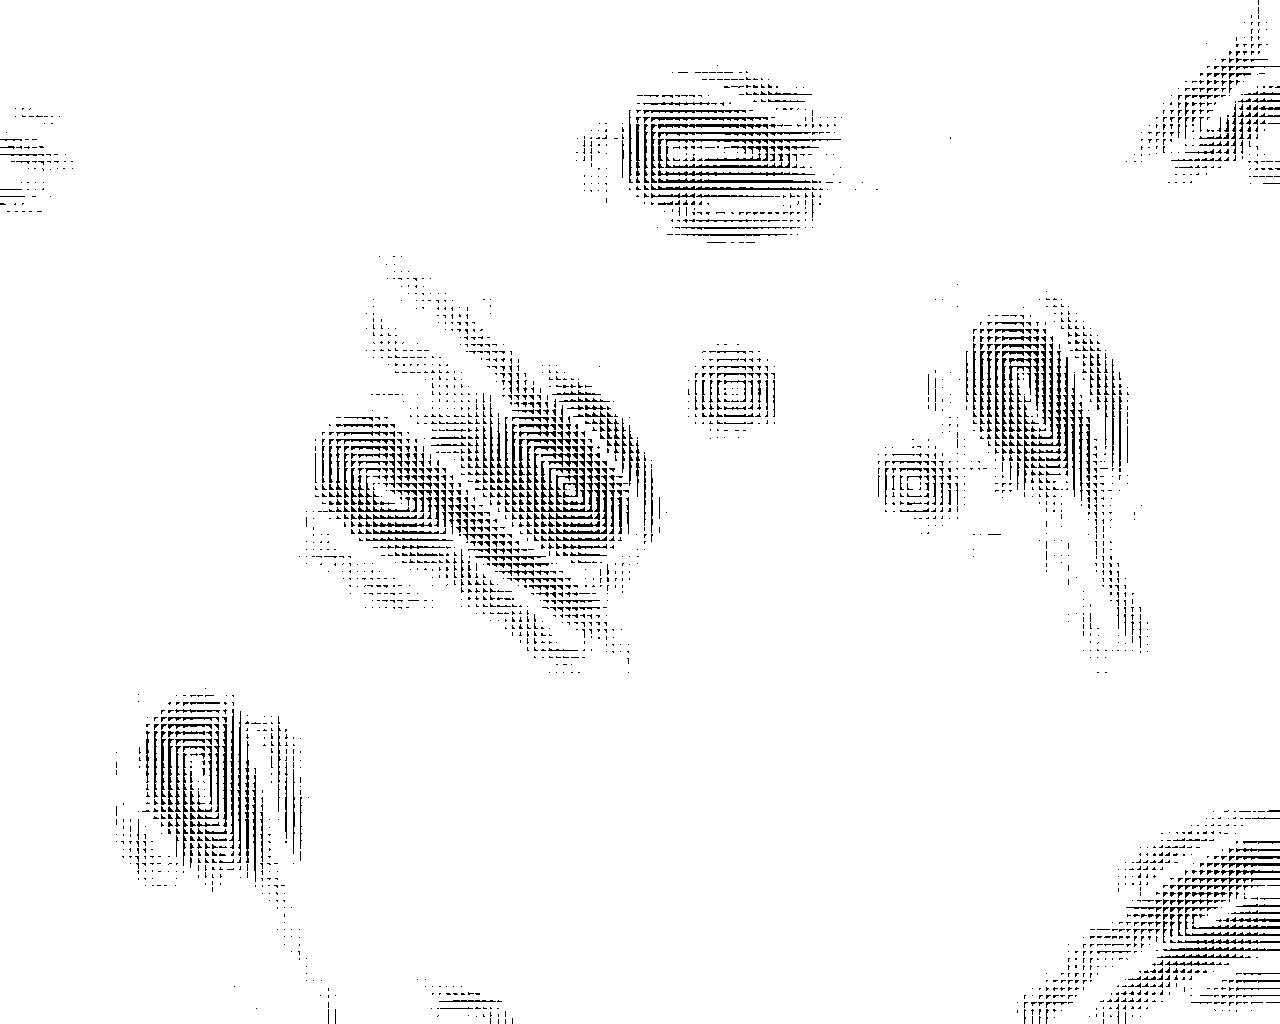
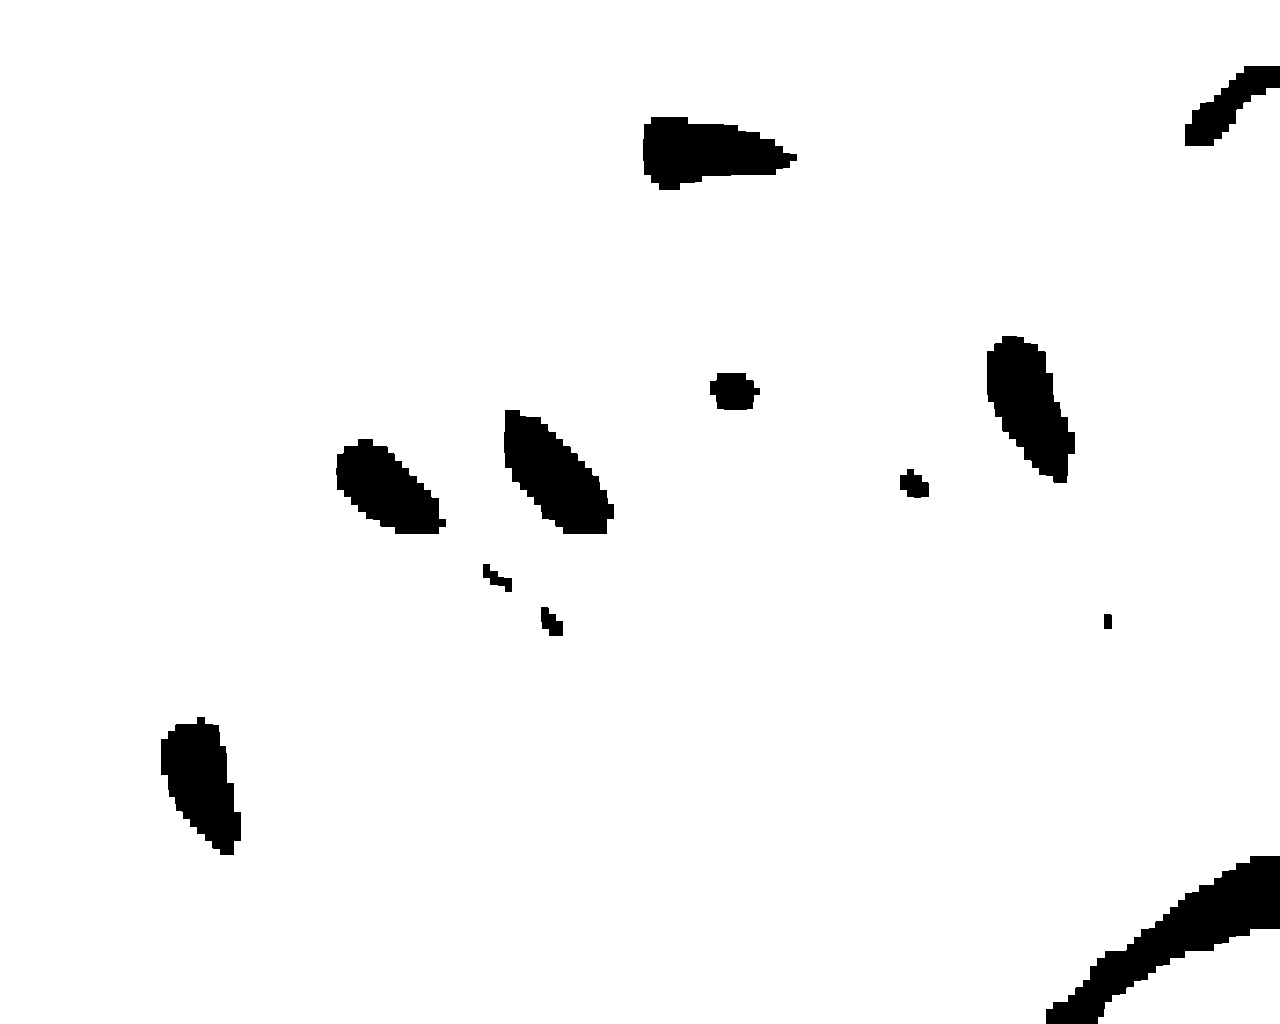
Adding otsu thr

diff --git a/mmdetection-github/tools/prepare_images.py b/mmdetection-github/tools/prepare_images.py
@@ -34,9 +34,12 @@ def post_processing(image):
         interpolation=cv2.INTER_AREA,
     )
 
-    image = cv2.adaptiveThreshold(
-        image, 255, cv2.ADAPTIVE_THRESH_GAUSSIAN_C, cv2.THRESH_BINARY, 11, 2
-    )
+    # image = cv2.adaptiveThreshold(
+    #     image, 255, cv2.ADAPTIVE_THRESH_GAUSSIAN_C, cv2.THRESH_BINARY, 11, 2
+    # )
+    #
+    _, image = cv2.threshold(image, 0, 255, cv2.THRESH_BINARY + cv2.THRESH_OTSU)
+
     return image
 
 
